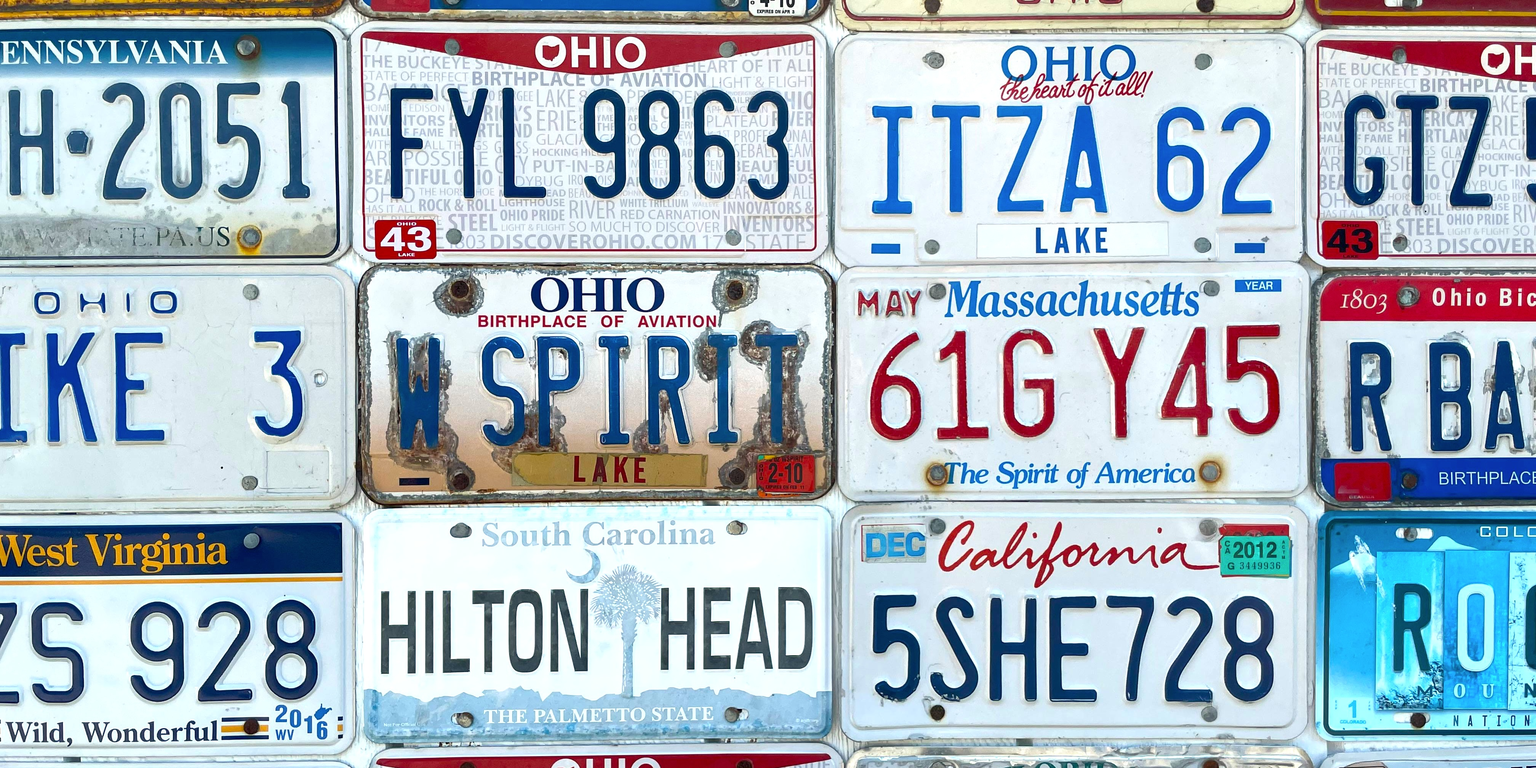
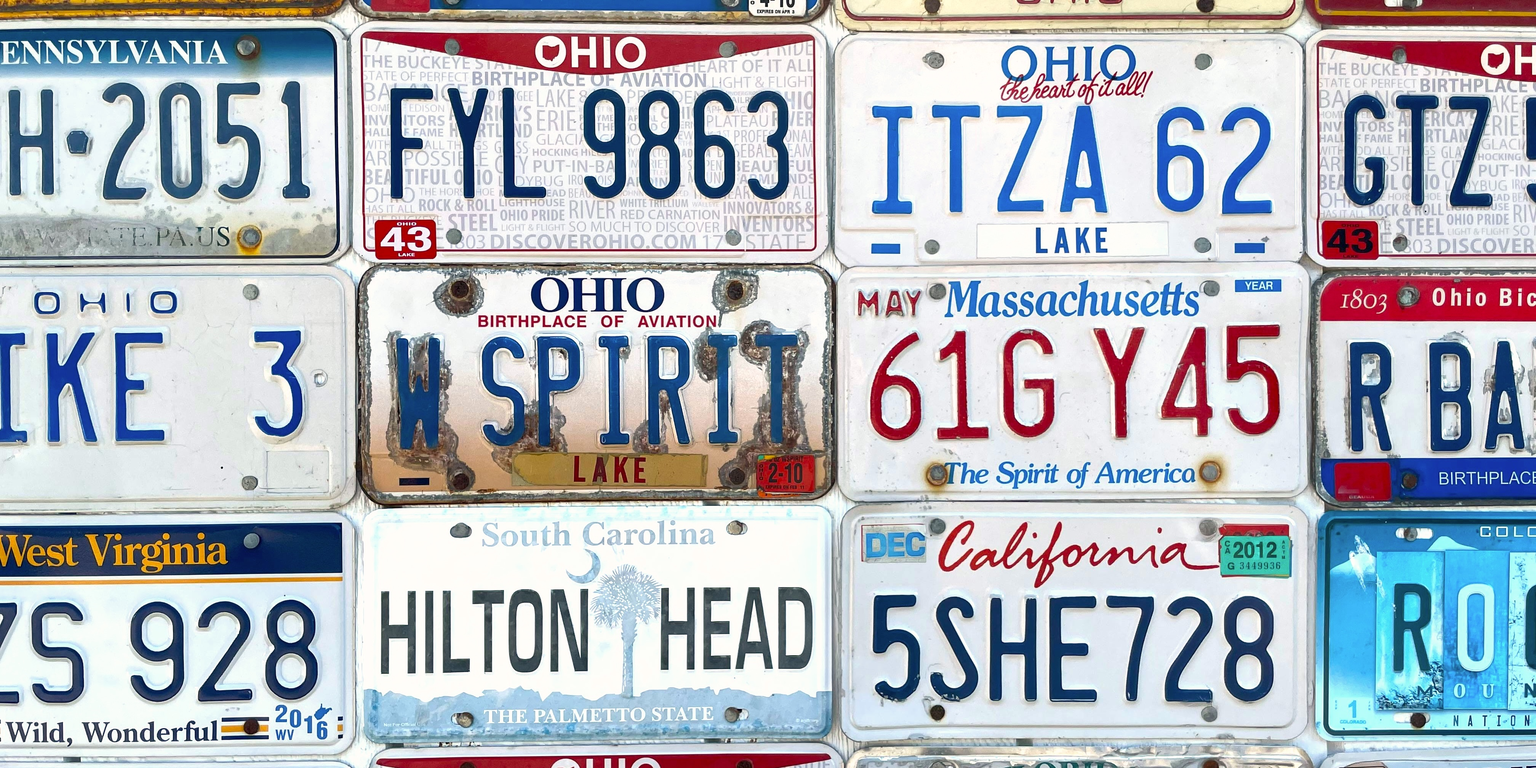
Remove the blue cast from the "license plates" card

Changed region(s): [[0.8438, 0.6875, 1.0, 0.9375], [0.7812, 0.6875, 0.8438, 0.75]]

diff --git a/src/_posts/2024/2024-08-14-looking-at-license-plates.md b/src/_posts/2024/2024-08-14-looking-at-license-plates.md
@@ -8,8 +8,8 @@ tags:
   - travel
   - driving
 colors:
-  index_light: "#174077"
-  index_dark:  "#e1eff2"
+  index_light: "#921b2a"
+  index_dark:  "#97b7c8"
 ---
 {% comment %}
   Card image from https://www.pexels.com/photo/wall-of-car-plate-12953608/
